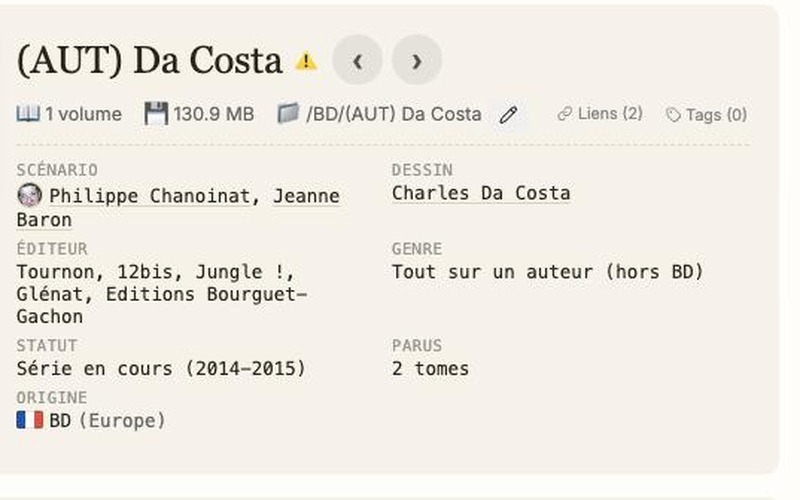
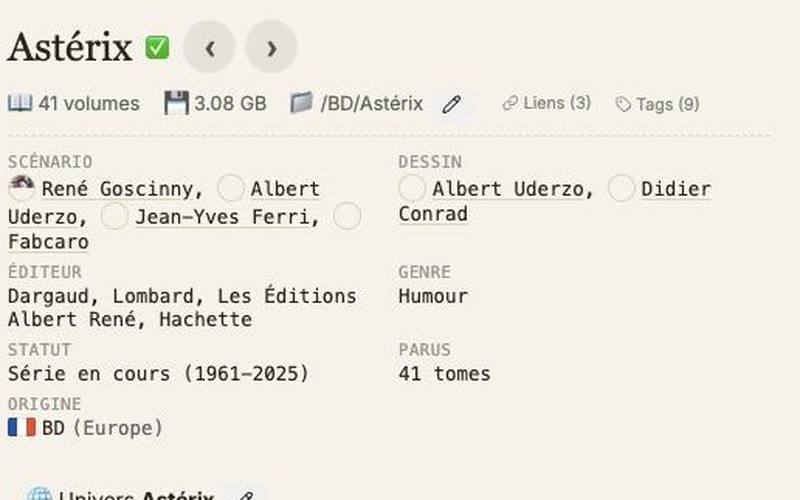
Site : fiche Astérix dans le carrousel, carrousel élargi à la fenêtre

diff --git a/index.html b/index.html
@@ -21,6 +21,7 @@
   html { scroll-behavior: smooth; }
   body {
     margin: 0;
+    overflow-x: hidden;
     font-family: system-ui, -apple-system, "Segoe UI", Roboto, "Helvetica Neue", Arial, sans-serif;
     color: var(--ink);
     background: var(--paper);
@@ -43,11 +44,11 @@
   }
   header.top nav a:hover { color: var(--accent-ink); }
 
-  .carousel { width: 100%; margin: 28px auto 0; }
+  .carousel { width: 100vw; position: relative; left: 50%; margin: 28px 0 0 -50vw; }
   .slide { display: none; margin: 0; }
   .slide.active { display: block; }
   .slide img {
-    display: block; width: 100%; aspect-ratio: 16 / 10; object-fit: cover; background: #fff;
+    display: block; width: 100%; max-width: 1200px; margin: 0 auto; aspect-ratio: 16 / 10; object-fit: cover; background: #fff;
     border: 1px solid var(--line); border-radius: 14px;
   }
   .slide figcaption { color: var(--muted); font-size: 0.93rem; text-align: center; margin-top: 10px; }
